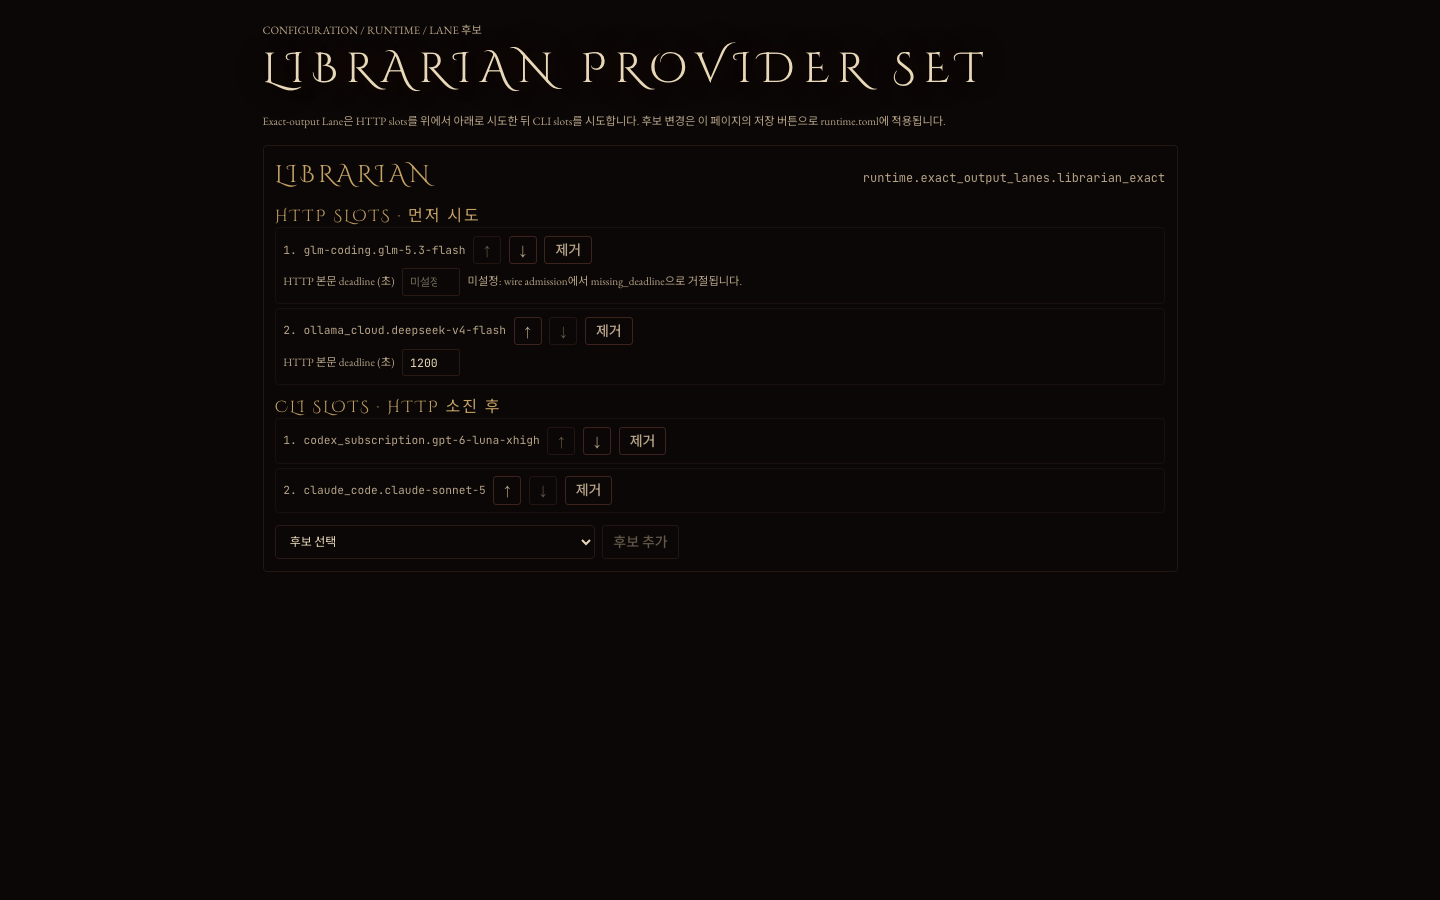
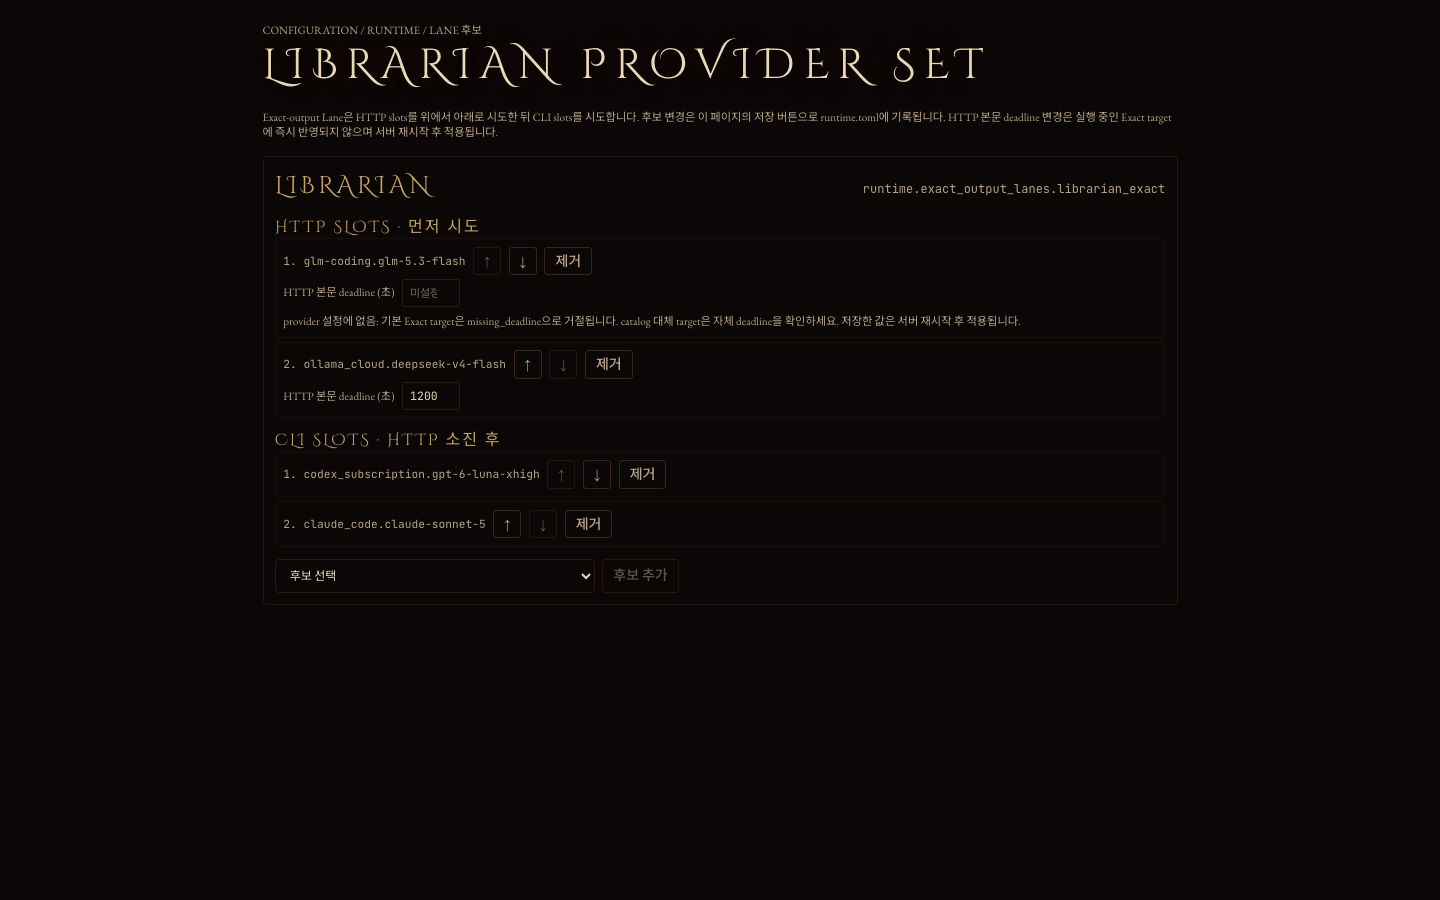
fix(dashboard): keep partial lane readings and qualify deadline warning

diff --git a/dashboard/src/components/runtime-exact-lane-editor.ts b/dashboard/src/components/runtime-exact-lane-editor.ts
@@ -57,7 +57,7 @@ export function RuntimeExactLaneEditor({ sourceText, disabled, onSlotsChange, on
           <h2 class="font-semibold">${lane.id === 'librarian_exact' ? 'Librarian' : lane.id}</h2>
           <code class="text-2xs">runtime.exact_output_lanes.${lane.id}</code>
         </header>
-        ${lane.error ? html`<p role="alert">이 Lane의 배열을 읽지 못했습니다: ${lane.error}. TOML 원문에서 수정하세요.</p>` : null}
+        ${lane.error ? html`<p role="alert">일부 후보 배열을 읽지 못했습니다: ${lane.error}. 후보 변경은 TOML 원문에서 하세요. 읽힌 HTTP 후보의 provider deadline은 아래에서 편집할 수 있습니다.</p>` : null}
         ${groups.map(group => html`<div key=${group.kind} class="space-y-1">
           <h3 class="text-xs font-semibold">${group.label}</h3>
           ${group.slots.length === 0 ? html`<p class="text-xs text-[var(--color-fg-muted)]">후보 없음</p>` : null}
@@ -81,14 +81,15 @@ export function RuntimeExactLaneEditor({ sourceText, disabled, onSlotsChange, on
                 <input type="number" min="0.001" step="any" class="rt-input-sm mono"
                   aria-label=${`${providerId} exact-body-timeout-s`}
                   value=${bodyDeadline ?? ''} placeholder="미설정"
-                  disabled=${disabled || lane.error !== null}
+                  disabled=${disabled}
                   onChange=${(event: Event) => {
                     const raw = (event.currentTarget as HTMLInputElement).value
                     const seconds = raw === '' ? null : Number(raw)
                     if (seconds === null || Number.isFinite(seconds) && seconds > 0) onDeadlineChange(providerId, seconds)
                   }} />
                 ${bodyDeadline === undefined ? html`<span role="alert" class="text-[var(--color-status-error)]">
-                  미설정: wire admission에서 missing_deadline으로 거절됩니다. 값을 저장한 뒤 서버를 재시작하세요.
+                  provider 설정에 없음: 기본 Exact target은 missing_deadline으로 거절됩니다.
+                  catalog 대체 target은 자체 deadline을 확인하세요. 저장한 값은 서버 재시작 후 적용됩니다.
                 </span>` : null}
               </label>` : null}
             </div>`

diff --git a/dashboard/src/lib/runtime-toml-config.ts b/dashboard/src/lib/runtime-toml-config.ts
@@ -586,14 +586,15 @@ export function parseRuntimeTomlExactLanes(sourceText: string): RuntimeTomlExact
     const match = section.name.match(/^runtime\.exact_output_lanes\.([^.]+)$/)
     if (!match?.[1]) return []
     const values = sectionValues(document, section.name)
-    try {
-      return [{ id: match[1], slots: sectionStringArray(document, section.name, 'slots'),
-        cliSlots: sectionStringArray(document, section.name, 'cli_slots'),
-        maxOutputTokens: asNumber(values.max_output_tokens), error: null }]
-    } catch (error) {
-      return [{ id: match[1], slots: [], cliSlots: [], maxOutputTokens: asNumber(values.max_output_tokens),
-        error: error instanceof Error ? error.message : String(error) }]
+    const read = (key: 'slots' | 'cli_slots') => {
+      try { return { slots: sectionStringArray(document, section.name, key), error: null } }
+      catch (error) { return { slots: [] as string[], error: error instanceof Error ? error.message : String(error) } }
     }
+    const http = read('slots')
+    const cli = read('cli_slots')
+    return [{ id: match[1], slots: http.slots, cliSlots: cli.slots,
+      maxOutputTokens: asNumber(values.max_output_tokens),
+      error: [http.error, cli.error].filter(Boolean).join('; ') || null }]
   })
 }
 

diff --git a/dashboard/src/lib/runtime-toml-config.test.ts b/dashboard/src/lib/runtime-toml-config.test.ts
@@ -80,6 +80,16 @@ describe('runtime TOML dashboard editing helpers', () => {
     expect(source).toContain('# primary')
   })
 
+  it('still exposes HTTP candidates when only the CLI array has comments', () => {
+    const source = `${sourceText}\n[runtime.exact_output_lanes.librarian_exact]\nslots = ["runpod_mtp.qwen"]\ncli_slots = [\n  "codex_subscription.luna", # quota fallback\n]\n`
+    const lane = parseRuntimeTomlExactLanes(source)[0]
+    expect(lane?.slots).toEqual(['runpod_mtp.qwen'])
+    expect(lane?.cliSlots).toEqual([])
+    expect(lane?.error).toContain('cli_slots contains comments')
+    expect(() => setRuntimeTomlExactLaneSlots(source, 'librarian_exact', 'slots', ['runpod_mtp.qwen']))
+      .toThrow('Cannot edit exact lane')
+  })
+
   it('projects provider, model, and binding fields from runtime.toml source', () => {
     const environment = parseRuntimeTomlEnvironment(sourceText)
 

diff --git a/evidence/librarian-lane-context/README.md b/evidence/librarian-lane-context/README.md
@@ -7,6 +7,6 @@ uses synthetic runtime IDs and endpoints. It shows the HTTP/CLI groups and the
 capture; this is local rendering evidence, not a deployed Dashboard receipt.
 
 Validation alongside the screenshot: `pnpm typecheck`, targeted Vitest for
-`runtime-toml-config` and `runtime-toml-editor` (99 tests), and ESLint passed.
+`runtime-toml-config` and `runtime-toml-editor` (100 tests), and ESLint passed.
 TUI and OCaml behavior is pending repository CI because this checkout does
 not build the TUI locally.
